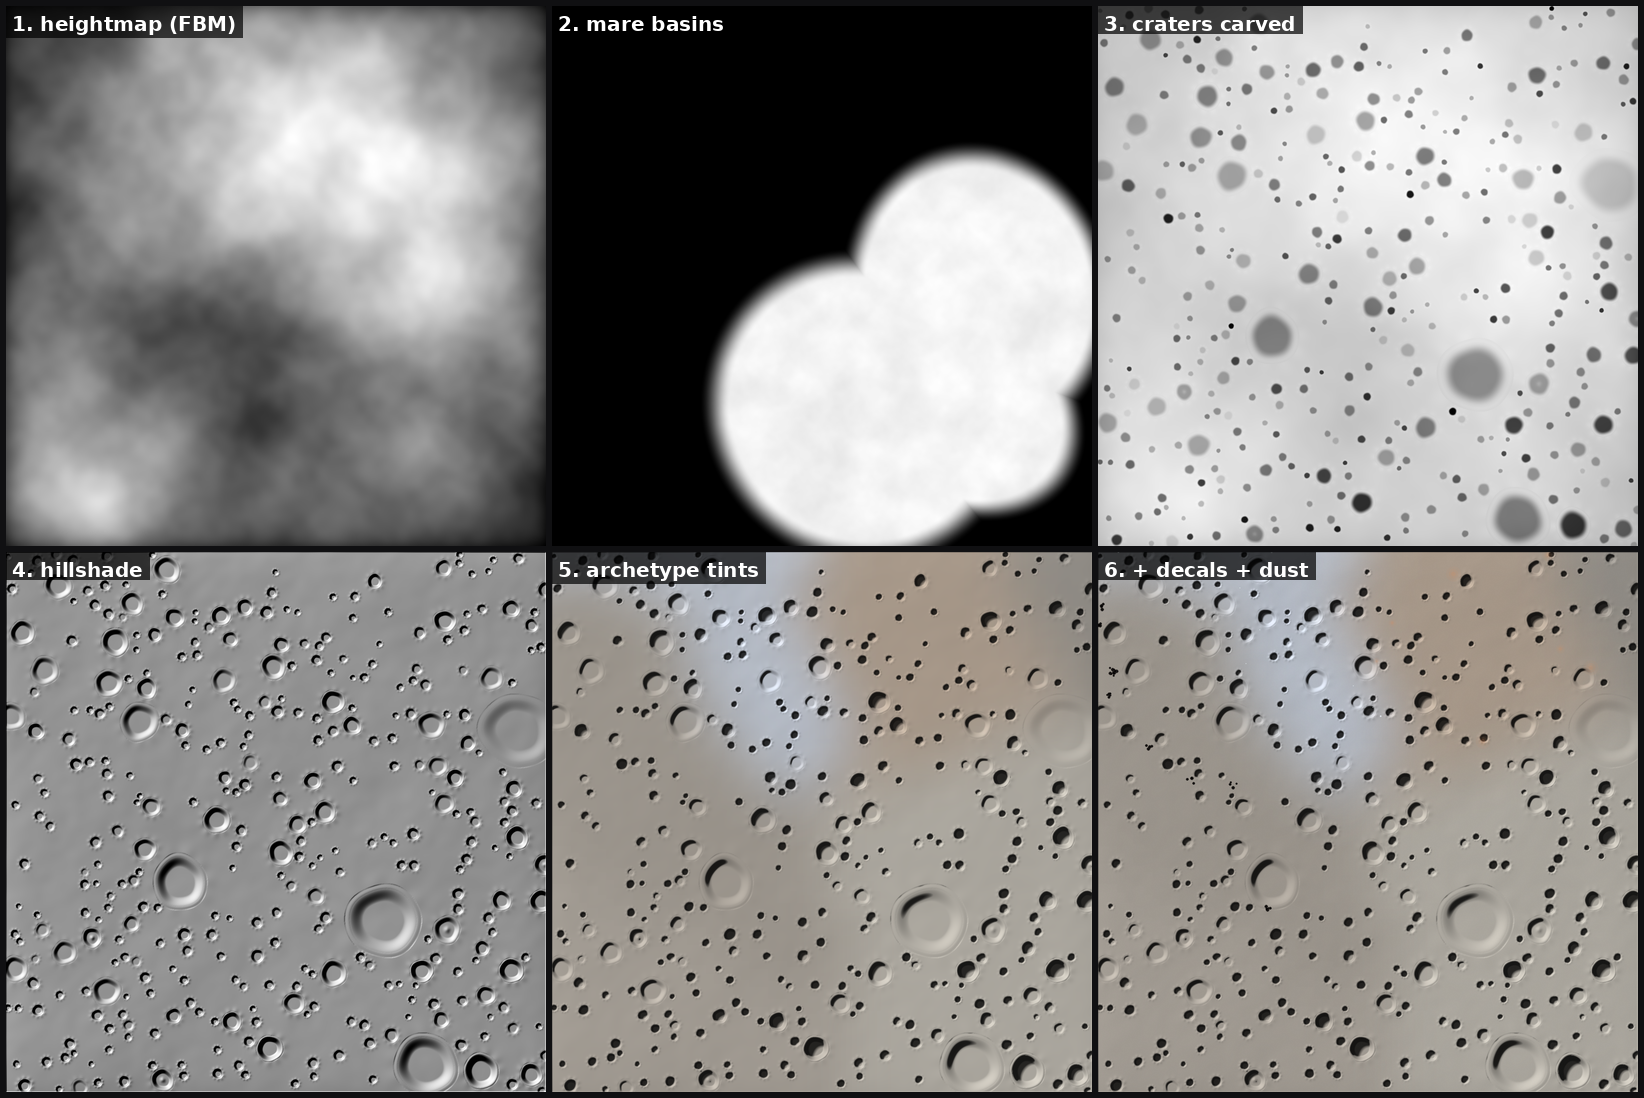
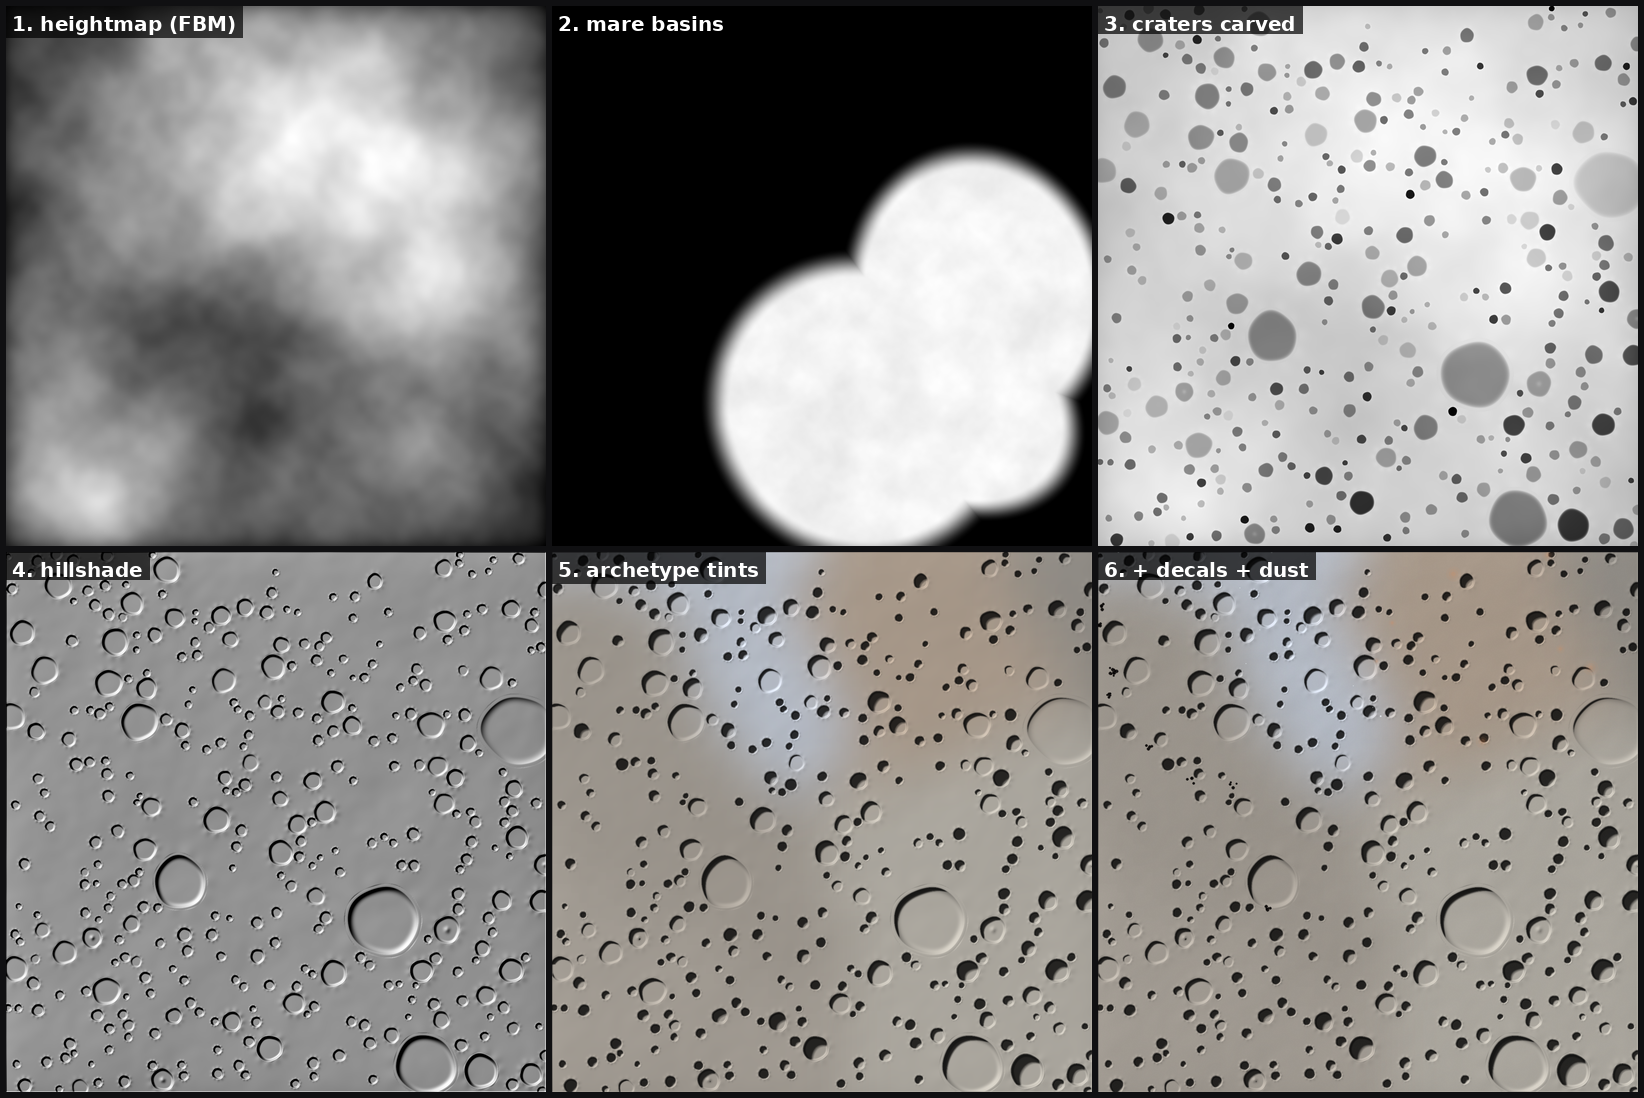
prototype: vertical-near-top crater wall profile
User feedback on larger craters: "the edge (inner sides) of the crater
look very mildly steep, whereas after a certain depth u normally except
kinda vertical periphery". Real lunar simple-crater morphology has a
near-vertical upper wall (recently disturbed bedrock) and a gradual
talus pile at the bottom (angle of repose ~30°). My smoothstep wall
was steepest in the middle, giving everything a soft bowl look.

Switched the wall profile from smoothstep to a power curve:

    h(d) = depth * (1 - u^p)   where u = (d - 0.70) / 0.25 in [0, 1]
                                p = 3..5, deeper craters get higher p

This concentrates the slope near u=1 (the rim crest) — vertical at
the top, gradual at the bottom. Plus widened the floor (0.55 -> 0.70)
and narrowed the wall span (0.37 -> 0.25 of radius), which on its own
makes walls visually steeper.

The big-crater rows in sanity_crater.png now show a clear transition:
flat floor, steep upper wall, tiny rim. The mid-floor section is
visibly distinct from the wall section.

https://claude.ai/code/session_014xZZbBkCGkgHdGrMSpJjDx

diff --git a/prototypes/planet_visuals/generate.py b/prototypes/planet_visuals/generate.py
@@ -306,23 +306,30 @@ def apply_craters(height, craters, rng=None):
         # Rim is *small* — only ~5% of depth amplitude.
         rim_amp = 0.05 * sharp * abs(depth_amp)
 
-        # Profile zones:
-        #   d in [0, 0.55]:  flat floor at depth_amp
-        #   d in [0.55, 0.92]: smooth wall rising to ground level
-        #   d in [0.92, 1.05]: tiny rim
+        # Profile zones, tuned to match real lunar simple-crater morphology:
+        #   d in [0, 0.70]:    flat floor (talus-filled bottom; wider than
+        #                      a textbook "bowl" — matches LRO photos)
+        #   d in [0.70, 0.95]: wall, with a steepness curve that's nearly
+        #                      vertical near the top and gradual at the
+        #                      bottom (angle-of-repose talus). Power
+        #                      profile h = depth * (1 - u^p), p=3..5.
+        #   d in [0.95, 1.05]: tiny rim
         #   d in [1.05, 1.8]:  subtle ejecta
-        floor_mask = d < 0.55
-        wall_mask = (d >= 0.55) & (d < 0.92)
-        rim_mask = (d >= 0.92) & (d < 1.05)
+        floor_mask = d < 0.70
+        wall_mask = (d >= 0.70) & (d < 0.95)
+        rim_mask = (d >= 0.95) & (d < 1.05)
         ejecta_mask = (d >= 1.05) & (d < ej)
 
         delta = np.zeros_like(d, dtype=np.float32)
         delta[floor_mask] = depth_amp
-        wd = (d[wall_mask] - 0.55) / 0.37
-        ws = 1.0 - wd
-        delta[wall_mask] = depth_amp * (ws * ws * (3.0 - 2.0 * ws))
+        # Wall: vertical-near-top profile. Bigger / deeper craters get a
+        # higher exponent (more vertical upper wall) — real-world simple
+        # bowl craters are deeper *and* steeper at the top.
+        wall_p = 3.0 + min(2.0, abs(depth_amp) * 4.0)
+        wu = (d[wall_mask] - 0.70) / 0.25
+        delta[wall_mask] = depth_amp * (1.0 - wu ** wall_p)
         rim_d = d[rim_mask]
-        delta[rim_mask] = rim_amp * np.exp(-((rim_d - 0.96) / 0.05) ** 2)
+        delta[rim_mask] = rim_amp * np.exp(-((rim_d - 1.00) / 0.05) ** 2)
         ed = d[ejecta_mask]
         ea = ang[ejecta_mask]
         ej_break = 0.3 + 0.7 * np.sin(ea * 5.0 + a1) ** 2
